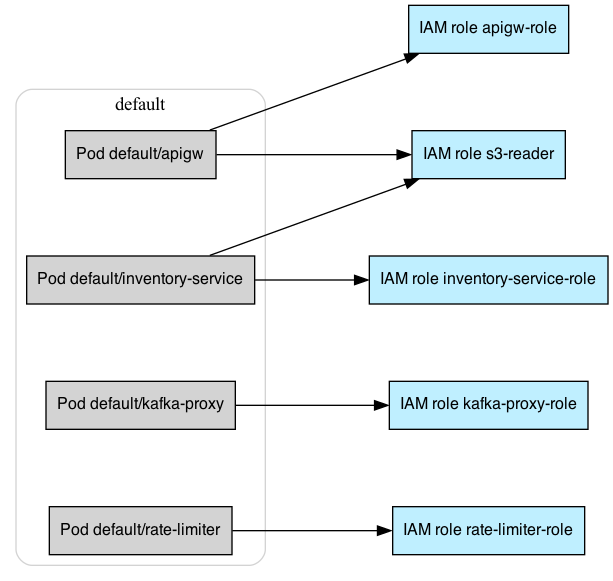
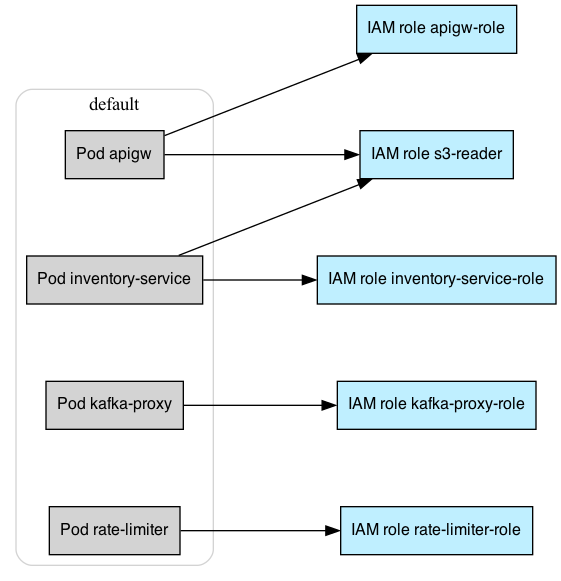
Revamp README

diff --git a/cmd/managed-kubernetes-auditing-toolkit/eks/role_relationships.go b/cmd/managed-kubernetes-auditing-toolkit/eks/role_relationships.go
@@ -161,7 +161,7 @@ func getDotOutput(cluster *eks.EKSCluster) (string, error) {
 			if pod.ServiceAccount == nil || len(pod.ServiceAccount.AssumableRoles) == 0 {
 				continue
 			}
-			podLabel := fmt.Sprintf(` "Pod %s/%s" `, namespace, pod.Name)
+			podLabel := fmt.Sprintf(` "Pod %s" `, pod.Name)
 			graphViz.AddNode(subgraph, podLabel, map[string]string{
 				"fontname":  "Helvetica",
 				"shape":     "box",

diff --git a/README.md b/README.md
@@ -1,79 +1,105 @@
 # Managed Kubernetes Auditing Toolkit (MKAT)
 
-**Note**: At this time (pre-release), this is highly beta.
+MKAT is a toolkit for identifying common security issues in managed Kubernetes environments. It is focused on AWS EKS at the moment, but will be extended to other managed Kubernetes environments in the future.
 
-## Building
+## Pre-requisites
 
-```bash
-make
-./mkat --help
-```
-
-## Usage
-
-For now, please refer to the autogenerated CLI documentation in [docs](./docs). Pre-requisites:
-
-* You need to be authenticated against an EKS cluster
-* For find-role-relationships, you also need to be authenticated against the same AWS account as where the EKS cluster is running
-
-## Sample outputs
-
-### Find role relationships
+Make sure you are authenticated against your cluster, and to AWS. MKAT uses your current AWS and kubectl authentication contexts.
 
 ```bash
-$ mkat eks find-role-relationships datadog-pde-test-eks-cluster-us-east-1
-
-2023/04/05 12:33:57 Retrieving cluster OIDC issuer
-2023/04/05 12:33:58 Listing roles in the AWS account
-2023/04/05 12:33:59 Listing K8s service accounts
-+-------------+------------------------------+-----------------------------------------------+--------------------------------------------------------------------------------------------+
-| NAMESPACE   | SERVICE ACCOUNT              | POD                                           | ASSUMABLE ROLE ARN                                                                         |
-+-------------+------------------------------+-----------------------------------------------+--------------------------------------------------------------------------------------------+
-| kube-system | aws-load-balancer-controller | aws-load-balancer-controller-56bbd74695-9sw79 | arn:aws:iam::677301038893:role/AmazonEKSLoadBalancerControllerRole                         |
-|             |                              | aws-load-balancer-controller-56bbd74695-9sw79 | arn:aws:iam::677301038893:role/ChristopheSampleIRSARoleThatCanBeAssumedByAnyPodInCluster   |
-|             |                              | aws-load-balancer-controller-56bbd74695-b7hb2 | arn:aws:iam::677301038893:role/AmazonEKSLoadBalancerControllerRole                         |
-|             |                              | aws-load-balancer-controller-56bbd74695-b7hb2 | arn:aws:iam::677301038893:role/ChristopheSampleIRSARoleThatCanBeAssumedByAnyPodInCluster   |
-+-------------+------------------------------+-----------------------------------------------+--------------------------------------------------------------------------------------------+
-| default     | christophe-test-sa           | christophe-irsa-deployment-7b476dfdb5-hkxdg   | arn:aws:iam::677301038893:role/ChristopheSampleIRSARoleThatCanBeAssumedByAnyPodInCluster   |
-|             |                              | christophe-irsa-deployment-7b476dfdb5-hkxdg   | arn:aws:iam::677301038893:role/ChristopheSampleIRSARoleThatCanBeAssumedByAnyPodInDefaultNS |
-|             |                              | christophe-irsa-deployment-7b476dfdb5-hkxdg   | arn:aws:iam::677301038893:role/ChristopheSamplePodIRSARole                                 |
-+-------------+------------------------------+-----------------------------------------------+--------------------------------------------------------------------------------------------+
+aws eks update-kubeconfig --name <cluster-name>
 ```
 
-### Find secrets
+## Features
 
-(Note: the secrets displayed below are fake)
+### Identify trust relationships between K8s service accounts and AWS IAM roles
+
+[IAM Roles for Service Accounts](https://docs.aws.amazon.com/eks/latest/userguide/iam-roles-for-service-accounts.html) is 
+a popular mechanism to allow pods to assume AWS IAM roles, by exchanging a Kubernetes service account token for AWS credentials through the AWS STS API (`AssumeRoleWithWebIdentity`).
+
+MKAT can identify the trust relationships between K8s service accounts and AWS IAM roles, and display them in a table or as a graph.
+
+```bash
+$ mkat eks find-role-role-relationships
+              _              _
+  _ __ ___   | | __   __ _  | |_
+ | '_ ` _ \  | |/ /  / _` | | __|
+ | | | | | | |   <  | (_| | | |_
+ |_| |_| |_| |_|\_\  \__,_|  \__|
+
+2023/04/12 00:25:15 Connected to EKS cluster mkat-cluster
+2023/04/12 00:25:15 Retrieving cluster OIDC issuer
+2023/04/12 00:25:16 Listing roles in the AWS account
+2023/04/12 00:25:18 Listing K8s service accounts in all namespaces
+2023/04/12 00:25:19 Analyzing the trust policy of 5 IAM roles that have the cluster's OIDC provider in their trust policy
++-----------+----------------------+-------------------+-------------------------------------------------------+
+| NAMESPACE | SERVICE ACCOUNT      | POD               | ASSUMABLE ROLE ARN                                    |
++-----------+----------------------+-------------------+-------------------------------------------------------+
+| default   | apigw-sa             | apigw             | arn:aws:iam::677301038893:role/apigw-role             |
+|           |                      |                   | arn:aws:iam::677301038893:role/s3-reader              |
+|           | inventory-service-sa | inventory-service | arn:aws:iam::677301038893:role/inventory-service-role |
+|           |                      |                   | arn:aws:iam::677301038893:role/s3-reader              |
+|           | kafka-proxy-sa       | kafka-proxy       | arn:aws:iam::677301038893:role/kafka-proxy-role       |
+|           | rate-limiter-sa      | rate-limiter      | arn:aws:iam::677301038893:role/rate-limiter-role      |
++-----------+----------------------+-------------------+-------------------------------------------------------+
+```
+
+It can also generate a `dot` output for graphic visualization:
+ 
+```bash
+$ mkat eks find-role-role-relationships --output-format dot --output-file roles.dot
+$ dot -Tpng -O roles.dot
+$ open roles.dot.png
+```
+
+![Mapping trust relationships](./examples/irsa.png)
+
+### Find hardcoded AWS credentials in K8s resources
+
+MKAT can identify hardcoded AWS credentials in K8s resources such as Pods, ConfigMaps, and Secrets. 
+It has a low false positive rate, and only alerts you if it finds both an AWS access key ID and a secret access key in the same Kubernetes resource.
+It's also able to work with unstructured data, i.e. if you have a ConfigMap with an embedded JSON or YAML document that contains AWS credentials.
 
 ```bash
 $ mkat eks find-secrets
-2023/04/05 12:34:30 Searching for AWS secrets in ConfigMaps...
-2023/04/05 12:34:32 Analyzing 21 ConfigMaps...
-2023/04/05 12:34:32 Searching for AWS secrets in Secrets...
-2023/04/05 12:34:32 Analyzing 52 Secrets...
-2023/04/05 12:34:32 Searching for AWS secrets in Pod definitions...
-2023/04/05 12:34:33 Analyzing 17 Pod definitions...
-+-----------+-----------+--------------------------------------------------------+------------------------------------------+
-| NAMESPACE | TYPE      | NAME                                                   | VALUE                                    |
-+-----------+-----------+--------------------------------------------------------+------------------------------------------+
-| default   | ConfigMap | my-config (key my-app-config)                          | AKIAZ3MSJV4WWNKWW5FG                     |
-| default   | ConfigMap | my-config (key my-app-config)                          | HP8lBRs8X50F/0nCAXqEPQ95+jlG/0pLdlNui2XF |
-| default   | Pod       | nginx-with-aws-creds (environment variable AWS_ACCESS) | AKIAZ3MSJV4WWNKWW5FG                     |
-| default   | Pod       | nginx-with-aws-creds (environment variable AWS_SECRET) | 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 |
-+-----------+-----------+--------------------------------------------------------+------------------------------------------+
+              _              _
+  _ __ ___   | | __   __ _  | |_
+ | '_ ` _ \  | |/ /  / _` | | __|
+ | | | | | | |   <  | (_| | | |_
+ |_| |_| |_| |_|\_\  \__,_|  \__|
+
+2023/04/12 00:33:24 Connected to EKS cluster mkat-cluster
+2023/04/12 00:33:24 Searching for AWS secrets in ConfigMaps...
+2023/04/12 00:33:25 Analyzing 10 ConfigMaps...
+2023/04/12 00:33:25 Searching for AWS secrets in Secrets...
+2023/04/12 00:33:25 Analyzing 45 Secrets...
+2023/04/12 00:33:25 Searching for AWS secrets in Pod definitions...
+2023/04/12 00:33:25 Analyzing 8 Pod definitions...
++-----------+--------+-----------------------------------------+------------------------------------------+
+| NAMESPACE | TYPE   | NAME                                    | VALUE                                    |
++-----------+--------+-----------------------------------------+------------------------------------------+
+| default   | Secret | kafka-proxy-aws (key aws_access_key_id) | AKIAZ3MSJV4WWNKWW5FG                     |
+| default   | Secret | kafka-proxy-aws (key aws_secret_key)    | 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 |
++-----------+--------+-----------------------------------------+------------------------------------------+
 ```
 
-### Test IMDS access from pods
+### Test if pods can access the AWS Instance Metadata Service (IMDS)
 
-```eks
+Pods accessing the EKS nodes Instance Metadata Service is a [common and dangerous attack vector](https://blog.christophetd.fr/privilege-escalation-in-aws-elastic-kubernetes-service-eks-by-compromising-the-instance-role-of-worker-nodes/) 
+that can be used to escalate privileges. MKAT can test if pods can access the IMDS. It tests it by creating a temporary pod that tries to access the IMDS, and then deletes it.
+
+```bash
 $ mkat eks test-imds-access
-2023/04/05 12:35:27 Testing if IMDS is accessible to pods by creating a pod that attempts to access it
-IMDS is accessible and allows any pod to retrieve credentials for the AWS role eksctl-datadog-pde-test-eks-clust-NodeInstanceRole-1BO32251HD3PV
+              _              _
+  _ __ ___   | | __   __ _  | |_
+ | '_ ` _ \  | |/ /  / _` | | __|
+ | | | | | | |   <  | (_| | | |_
+ |_| |_| |_| |_|\_\  \__,_|  \__|
+
+2023/04/12 00:35:10 Connected to EKS cluster mkat-cluster
+2023/04/12 00:35:10 Testing if IMDS is accessible to pods by creating a pod that attempts to access it
+2023/04/12 00:35:15 IMDS is accessible and allows any pod to retrieve credentials for the AWS role eksctl-mkat-cluster-nodegroup-ng-NodeInstanceRole-AXWUFF35602Z
 ```
-
-## Vision tl;dr
-
-* We show cloud-specific risks, not generic ones
-* We only show effective risk, not "potential" / graph-based risk
 
 ## How does MKAT compare to other tools?
 
@@ -87,3 +113,11 @@ IMDS is accessible and allows any pod to retrieve credentials for the AWS role e
 | [kdigger](https://github.com/quarkslab/kdigger) | kdigger is a general-purpose context discovery tool for Kubernetes penetration testing. It does not attempt to be specific to managed K8s environments. |
 | [kubeletmein](https://github.com/4ARMED/kubeletmein) | kubeletmein _is_ specific to managed K8s environments. It's an utility to generate a kubeconfig file using the node's IAM credentials, to then use it in a compromised pod. |
 | [hardeneks](https://github.com/aws-samples/hardeneks) | hardeneks _is_ specific to managed K8s environments, but only for EKS. It identifies issues and lack of best practices inside of the cluster, and does not focus on cluster to cloud pivots. |
+
+## Roadmap
+
+We currently plan to:
+* Add a feature to identify EKS pods that are exposed through an AWS load balancer, through the [aws-load-balancer-controller](https://github.com/kubernetes-sigs/aws-load-balancer-controller)
+* Add support for GCP GKE
+* Allow scanning for additional types of cloud credentials
+* Enhance the IAM role trust policy evaluation logic to take into account additional edge cases
